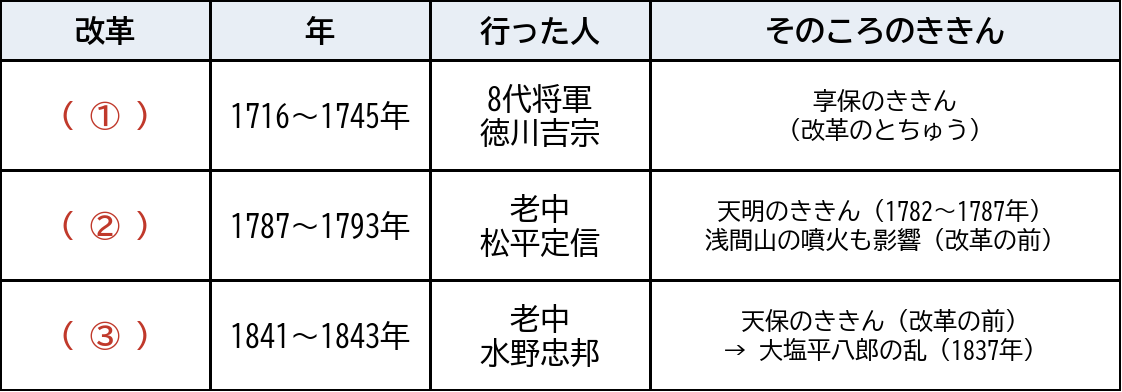
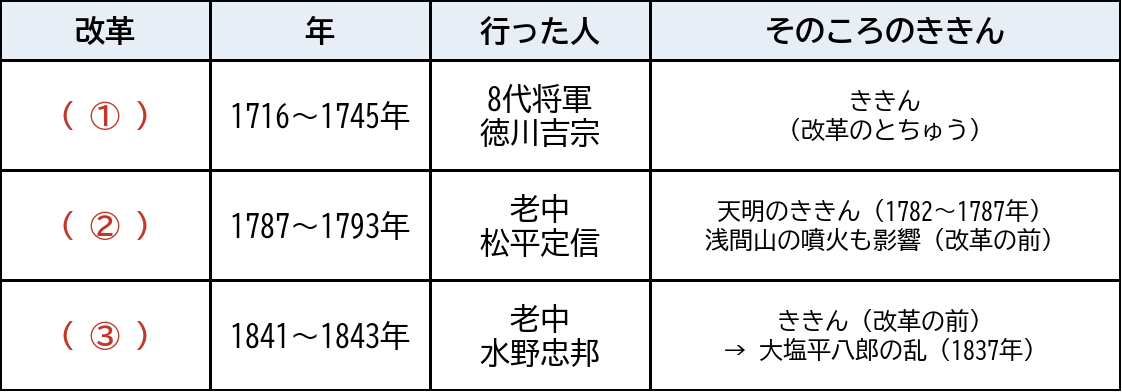
社会 第11回の表 g11t2・g11t3: 答えの手がかりを消す（t2 は享保・天保のききんの名を出さない・t3 は改革の列を「？」）（11-14 ユーザー）

Changed region(s): [[0.6551, 0.7653, 0.9046, 0.8571], [0.7175, 0.2143, 0.8422, 0.3061]]

diff --git a/sw.js b/sw.js
@@ -21,9 +21,9 @@
 //   図（images/）や機内用の範囲の問題を足したら `node tools/build_sw.mjs` を回す
 //   （回し忘れは `node tools/build_sw.mjs --check` と verify_data.mjs が鳴らす）
 // ==BUILD START==
-const VERSION = "dd1fa4ac10";
+const VERSION = "c8ce36f9dd";
 const SHELL = ["index.html","data.js","daimon_data.js","manifest.webmanifest"];
-const IMAGES = {"img_01.jpg":"c509d30588","img_02.jpg":"431d673976","img_03.jpg":"20551c26c2","img_04.jpg":"babec171a8","img_05.jpg":"217a902f82","img_06.jpg":"ee339c13be","img_07.jpg":"c1d5fc9bfa","img_08.jpg":"7dc1fc69c9","img_09.jpg":"122f4085cd","img_10.jpg":"79aa27232b","img_11.jpg":"c424068b7d","img_12.jpg":"28f630ce07","img_13.jpg":"3b0f378e3c","img_14.jpg":"fa1c135386","img_15.jpg":"9c58e3530d","img_16.png":"e8243de958","img_17.png":"3c926ffcaf","img_18.png":"d12e058e34","img_19.png":"7b6ca9ce21","img_20.png":"406e674c4e","img_21.png":"0318803303","img_22.png":"6256724412","img_23.jpg":"d2b41ad9fd","img_24.jpg":"9fb82e77d5","img_25.jpg":"e331b1db97","kai11_01.jpg":"d742fa02bc","kai11_02.jpg":"7d5ff2c1a6","kai11_03.jpg":"fa0de46f98","kai11_04.jpg":"5c528dc779","kai11_05.jpg":"4c5bcf952d","kai11_06.jpg":"9e51d6a09b","kai11_07.jpg":"45af4b2222","kai11_08.jpg":"bf30695b22","kai11_09.jpg":"36310a39b6","kai11_10.jpg":"bdf5150444","kai11_t1.png":"5d6a2375f1","kai11_t2.png":"049be79cb4","kai11_t3.png":"0be1bde1f1","kai11_t4.png":"190fda9932","kai11_t5.png":"f008754e86","kai1_01.jpg":"9ad30dbb41","kai1_02.jpg":"48cc954516","kai1_03.jpg":"f77c4689f9","kai1_04.jpg":"7be130efb7","kai1_05.jpg":"581087bbec","kai1_06.jpg":"605bb3fc6e","kai1_07.jpg":"443e9c5bb5","kai1_08.jpg":"f933cc3d35","kai1_09.jpg":"61d828179a","kai1_10.jpg":"aeb6fc6a25","kai1_11.jpg":"524c68147c","kai1_12.jpg":"0280a07787","kai1_13.jpg":"347749eafe","kai1_14.jpg":"4189b5e927","kai1_15.jpg":"1de589f164","kai1_17.jpg":"edb1f824fb","kai1_18.jpg":"02deb5baaf","kai1_20.jpg":"78bee7824e","kai1_21.jpg":"b72d254adb","kai1_22.jpg":"9288973c76","kai1_23.jpg":"724d436a13","kai1_24.jpg":"0280a07787","kai1_25.jpg":"8cb1eab9b2","kai1_26.jpg":"e6c693e547","kai1_27.jpg":"4351ddf4cd","kai1_28.jpg":"a94cdbe09e","kai1_29.jpg":"4ee5aed91d","kai1_30.jpg":"9f0cbd69a4","kai1_hikaku.jpg":"1d1a966776","kai2_01.jpg":"036fd88ce8","kai2_02.jpg":"0c18e7d26b","kai2_03.jpg":"18b9306794","kai2_04.jpg":"b8cee663c1","kai2_05.jpg":"9c0f05febe","kai3_01.jpg":"f0c6217e6d","kai3_02.jpg":"3afd2d1f3c","kai3_03.jpg":"5f4dcd0bee","kai3_04.jpg":"001a13ac17","kai3_05.jpg":"7d2c6c91ac","kai3_06.jpg":"c291d6c748","kai3_07.jpg":"84488aff29","kai4_01.jpg":"098f572034","kai5_01.jpg":"3916e558d3","kai5_02.jpg":"9bffc157fb","kai6_01.jpg":"21fc60dbd6","kai6_02.jpg":"99b07705de","kai6_03.jpg":"aabd3bc644","kai6_04.jpg":"aa04ce866e","kai6_05.jpg":"4297d7df87","kai6_06.jpg":"f8a264470b","kai6_07.jpg":"5d19b55330","kai6_08.jpg":"bdda62e4dd","kai6_09.jpg":"e6486ab1d9","kai7_01.jpg":"a289535a32","kai7_02.jpg":"4691df9fea","kai7_03.jpg":"3f76254c1d","kai7_04.jpg":"e497280d98","kai7_05.jpg":"96fdbde7c4","kai7_06.jpg":"c9bfae9ba3","kai7_07.jpg":"e18839816b","kai7_08.jpg":"58e8746c28","kai7_09.jpg":"e825ba55b9","kai8_01.jpg":"21a720c24f","kai8_02.jpg":"2b62307919","kai8_03.jpg":"6a964ed5d7","kai8_04.jpg":"58ec3bec61","kai8_05.jpg":"008e2ea758","kai8_06.jpg":"df368339d4","kai8_07.jpg":"eda4c5b548","kai8_08.jpg":"a6c80cc013","kai8_09.jpg":"10e896648d","kai8_11.jpg":"92b8606831","kai8_13.jpg":"c40d019dce","kai8_14.jpg":"343789076f","kai9_01.jpg":"9704a3254b","kai9_02.jpg":"bf94c29fd5","kai9_03.jpg":"4e5d5905d5","kai9_04.jpg":"c19cc88ae4","kai9_05.jpg":"7bdc4a86a7","kai9_06.jpg":"1d6a90b0ff","kai9_07.jpg":"5ac69cce32","kai9_08.jpg":"76799ff83f","kai9_09.jpg":"f72770bc19","kai9_10.jpg":"53ced4b6a1","kaki_r1_01.jpg":"40efaae693","kaki_r1_02.jpg":"c7c281cf30","kaki_r1_03.jpg":"166ecbf482","kaki_r1_04.jpg":"2669f29305","kaki_r1_05.jpg":"039c4f2ec1","kaki_r1_06.jpg":"c7da6a228f","kaki_r1_07.jpg":"c6ec89a8a8","kaki_r1_08.jpg":"9315802c0c","kaki_r1_map01.jpg":"6c41c6b2ad","kaki_r1_map02.jpg":"ecfac38b14","kaki_r1_map03.jpg":"32bdefa779","kaki_r1_map04.jpg":"8961c1f671","kaki_r1_map05.jpg":"e933b41316","kaki_r1_map06.jpg":"8b0fce1e24","kaki_r1_map07.jpg":"36ea857422","kaki_r1_map08.jpg":"1fb4038761","kaki_r1_map09.jpg":"c8ff2fbc1f","kaki_r1_map10.jpg":"efb44b01e1","kaki_r1_map11.jpg":"11ca22ec54","kaki_r1_map12.jpg":"5cd721c8c7","kaki_r1_map13.jpg":"c6bd4907a1","kaki_r1_map14.jpg":"532a90db1a","kaki_r1_map15.jpg":"1d3a34ebcb","kaki_r2_graph01.jpg":"32d57ce772","kaki_r2_graph02.jpg":"ee3d8ef3f4","kaki_r2_graph03.jpg":"780ea73f9f","kaki_r2_graph04.jpg":"6db370ff43","kaki_r2_graph06.jpg":"4205a357b8","kaki_r2_graph07.jpg":"24abb6e920","kaki_r2_map01.jpg":"e76da5df3c","kaki_r2_map05.jpg":"77871fe1cd","kaki_r2_map07.jpg":"edde3ccd6a","kaki_r2_map08.jpg":"f6b4fd1876","kaki_r2_map09.jpg":"571c10e75a","kaki_r2_map10.jpg":"639fce96a0","kaki_r2_map11.jpg":"f797085a00","kaki_r2_map12.jpg":"e6c57da6a6","kaki_r2_map13.jpg":"a677984d27","kaki_r2_map14.jpg":"453dffc6f7","kaki_r2_map15.jpg":"5584bcee3b","kaki_r2_map16.jpg":"b15ab6d389","kaki_r2_map17.jpg":"5bd38fb762","kaki_r2_map18.jpg":"7d2d88579e","kaki_r2_map19.jpg":"275eabe7ad","kaki_r3_graph01.jpg":"1cd4a32624","kaki_r3_house01.jpg":"b24e489bb0","kaki_r3_map01.jpg":"b5df31df5b","kaki_r3_map02.jpg":"9a95515cd3","kaki_r3_map03.jpg":"8219e31218","kaki_r3_map04.jpg":"d06babe5d0","kaki_r3_map05.jpg":"8d72897ae9","kaki_r3_map06.jpg":"7d5f78fc0a","kaki_r3_map07.jpg":"054c557c2e","kaki_r3_map08.jpg":"5106a9de1f","kaki_r3_map09.jpg":"242f1d237e","kaki_r3_map10.jpg":"fdddf5a535","kaki_r3_map11.jpg":"3b8de18bbf","kaki_r3_map12.jpg":"f3bd73ae35","kaki_r3_map13.jpg":"4d2bcf3271","kaki_r3_map14.jpg":"9502878c46","kaki_r3_map15.jpg":"24ae7e39c1","kaki_r3_map16.jpg":"7702af9f69","kaki_r3_map17.jpg":"c982cc30a8","kaki_r3_map18.jpg":"42988dc4cc","kaki_r3_map19.jpg":"b15c3f5f38","kaki_r3_map20.jpg":"0973448cc4","kaki_r3_map21.jpg":"c90eb11e41","kaki_r3_map22.jpg":"f89a00c568","kaki_r3_map23.jpg":"ce5b967d9c","kaki_r3_map24.jpg":"30c90127f2","kaki_r3_map25.jpg":"f7b333f624","kaki_r3_map26.jpg":"9b79fa55d6","kaki_r3_map27.jpg":"1372731975","kaki_r3_map28.jpg":"f27a725668","kaki_r3_map29.jpg":"f2f731e618","kaki_r3_map30.jpg":"f3cf418799","kaki_r3_map31.jpg":"92342ccf13","kaki_r3_map32.jpg":"aca69cb237","kaki_r3_map33.jpg":"a067100f3f","kaki_r3_map34.jpg":"c09c0eae4c","kaki_r3_map35.jpg":"338b7b8b69","kaki_r3_map36.jpg":"50726b5665","kaki_r3_map37.jpg":"adb3ff0179","kaki_r3_shapes.jpg":"b7ef8fe7b0","kaki_r4_graph01.jpg":"c01de42527","kaki_r4_graph02.jpg":"4df4d97dbb","kaki_r4_map01.jpg":"79964d929e","kaki_r4_map02.jpg":"214032e3fb","kaki_r4_map03.jpg":"d3480426f7","kaki_r4_map04.jpg":"cd15a33476","kaki_r4_map05.jpg":"b9785a5761","kaki_r4_map06.jpg":"0de4ecf793","kaki_r4_map07.jpg":"111c204b6c","kaki_r4_map08.jpg":"a9cd2b7609","kaki_r4_map09.jpg":"53c7a9f0f6","kaki_r4_map10.jpg":"1446aba131","kaki_r4_map11.jpg":"014d34cbfb","kaki_r4_map12.jpg":"1ffc5e7cad","kaki_r4_map13.jpg":"765e7355cb","kaki_r4_map14.jpg":"14832f0c5b","kaki_r4_map15.jpg":"eb779a8f40","kaki_r4_map16.jpg":"efb2dc0c7d","kaki_r4_map17.jpg":"f5d991a0a9","kaki_r4_map18.jpg":"944dce04f2","kaki_r4_map19.jpg":"3573613dda","kaki_r4_map20.jpg":"1051878e40","kaki_r4_map21.jpg":"09de9cc945","kaki_r4_map22.jpg":"7cd6f39783","kaki_r4_map23.jpg":"54f7ae304f","kaki_r4_map24.jpg":"90e43d0b03","kaki_r4_map25.jpg":"25d2998845","kaki_r4_map26.jpg":"b410216caa","kaki_r4_map27.jpg":"01d2acc713","kaki_r4_map28.jpg":"72394df34f","kaki_r4_map29.jpg":"9e710c5386","kaki_r4_map30.jpg":"96dcc908eb","kaki_r4_map31.jpg":"b4b23e5056","kaki_r4_map32.jpg":"c6e141f588","kaki_r4_map33.jpg":"5637d59ea5","kaki_r4_map34.jpg":"da2b9a701d","kaki_r4_map35.jpg":"b38a26a1f9","kaki_r4_map36.jpg":"654a87c9ca","kaki_r4_map37.jpg":"abf9495c0e","kaki_r4_map38.jpg":"d9bfd21599","kaki_r4_map39.jpg":"adc7d0233c","kaki_r4_map40.jpg":"e48b5684b9","kaki_r4_map41.jpg":"a7c900c913","kaki_r4_shapes01.jpg":"fecd868b23","kaki_r4_shapes02.jpg":"d55b458da9","kaki_r5_graph02.jpg":"c66566f25f","kaki_r5_graph05.jpg":"9e47ade2ee","kaki_r5_map01.jpg":"c38804bbfe","kaki_r5_map02.jpg":"7eac88cd41","kaki_r5_map03.jpg":"6cb4d28531","kaki_r5_map04.jpg":"1ce12d046c","kaki_r5_map05.jpg":"ed7badf0e7","kaki_r5_map06.jpg":"cb26648bb7","kaki_r5_map07.jpg":"71e0a7471a","kaki_r5_map08.jpg":"cb201dc1ad","kaki_r5_map09.jpg":"5492cacbbd","kaki_r5_map10.jpg":"55d2435544","kaki_r5_map11.jpg":"343f6ce76d","kaki_r5_map12.jpg":"b74276a461","kaki_r5_map13.jpg":"d662f67d0a","kaki_r5_map14.jpg":"9c25e54a2c","kaki_r5_map15.jpg":"4376961dbe","kaki_r5_map16.jpg":"a398327f58","kaki_r5_map17.jpg":"8f1e23de6f","kaki_r5_map18.jpg":"d063497018","kaki_r5_map19.jpg":"9e149162e9","kaki_r5_map20.jpg":"2c88d5bd5a","kaki_r5_map21.jpg":"1a580e7a32","kaki_r5_map22.jpg":"398b418584","kaki_r5_map23.jpg":"4d62801b55","kaki_r5_map24.jpg":"fe4a91e391","kaki_r5_map25.jpg":"2b1faef03a","kaki_r5_map26.jpg":"caa8517e16","kaki_r5_map27.jpg":"3fc1dacd7c","kaki_r5_map28.jpg":"5b003a47a1","kaki_r5_map29.jpg":"4c177786d9","kaki_r5_map30.jpg":"8771a4c770","kaki_r5_map31.jpg":"8b3232b824","kaki_r5_map32.jpg":"3edcd448a1","kaki_r5_shapes02.jpg":"5df2c79f77","kaki_r5_shapes03.jpg":"aac1488fcf","kaki_r5_table01.jpg":"19533bd2f2","kaki_r5_table02.jpg":"d8019480f5","kaki_r6_graph01.jpg":"96bb4577a7","kaki_r6_map01.jpg":"d9934df143","kaki_r6_map02.jpg":"fe5bd5dbbe","kaki_r6_map03.jpg":"e1e31c6154","kaki_r6_map04.jpg":"b66fa8a761","kaki_r6_map05.jpg":"e32e50186e","kaki_r6_map06.jpg":"edd75b804c","kaki_r6_map07.jpg":"b77ba31786","kaki_r6_map08.jpg":"36b54ed3c8","kaki_r6_map09.jpg":"6f08ed9b1a","kaki_r6_map10.jpg":"5dcc7b61af","kaki_r6_map11.jpg":"8930f6ed5a","kaki_r6_map12.jpg":"b9a01555a7","kaki_r6_map13.jpg":"ae954fc0d3","kaki_r6_map14.jpg":"c3d0ada944","kaki_r6_map15.jpg":"33c3dd2588","kaki_r6_map16.jpg":"f143bac952","kaki_r6_map17.jpg":"8e4028b2f9","kaki_r6_map18.jpg":"e27c8cc933","kaki_r6_map19.jpg":"9675f32dd9","kaki_r6_map20.jpg":"73a10cd200","kaki_r6_map21.jpg":"d4424ac8cf","kaki_r6_map22.jpg":"2274caa4a2","kaki_r6_map23.jpg":"129b3c20cf","kaki_r6_map24.jpg":"334ddece52","kaki_r6_map25.jpg":"6c84324de8","kaki_r6_map26.jpg":"4f02b0d10a","kaki_r6_map27.jpg":"5435b9a073","kaki_r6_map28.jpg":"4f420842a2","kaki_r6_map29.jpg":"43c72ca771","kaki_r6_map30.jpg":"ba92be3494","kaki_r6_map31.jpg":"5fb2f51387","kaki_r6_map32.jpg":"50a9be50e2","kaki_r6_map33.jpg":"ee52bc0e68","kaki_r6_map34.jpg":"c306aca085","kaki_r6_map35.jpg":"82ba643838","kaki_r6_map36.jpg":"f0b2024222","kaki_r6_map37.jpg":"578787fb55","kaki_r6_map38.jpg":"a867948ec2","kaki_r6_map39.jpg":"36ddd230df","kaki_r6_map40.jpg":"b451ce2553","kaki_r6_map41.jpg":"e945ff9e3b","kaki_r6_map42.jpg":"6ead747b59","kaki_r6_map43.jpg":"0c4fa9452c","kaki_r6_map44.jpg":"b6ba24cf61","kaki_r6_map45.jpg":"60c76ded4f","kaki_r6_map46.jpg":"c997423a88","kaki_r6_map47.jpg":"03668f2ff1","kaki_r6_map48.jpg":"b976807139","kaki_r6_map49.jpg":"3bede7dac8","kaki_r6_table01.jpg":"a8958813c8","kaki_r7_graph02.jpg":"1f62812a09","kaki_r7_map01.jpg":"99e641197f","kaki_r7_map02.jpg":"9bf3a0d803","kaki_r7_map03.jpg":"f797eda8eb","kaki_r7_map04.jpg":"decaa1c29a","kaki_r7_map05.jpg":"8c65db6a92","kaki_r7_map06.jpg":"ac9efa31ab","kaki_r7_map07.jpg":"8c1d72ca7c","kaki_r7_map08.jpg":"433be63b7b","kaki_r7_map09.jpg":"54db8c57e6","kaki_r7_map10.jpg":"71c659ba69","kaki_r7_map11.jpg":"b21192fde1","kaki_r7_map12.jpg":"73c261b366","kaki_r7_map13.jpg":"65f35e8544","kaki_r7_map14.jpg":"7177100d76","kaki_r7_map15.jpg":"133fd7c751","kaki_r7_map16.jpg":"3eb4b1ab57","kaki_r7_map17.jpg":"c7e46c62c8","kaki_r7_map18.jpg":"595fa5f1d3","kaki_r7_map19.jpg":"49e0ea66d2","kaki_r7_map20.jpg":"030f5b32b7","kaki_r7_map21.jpg":"05808524f1","kaki_r7_map22.jpg":"bd20c38480","kaki_r7_map23.jpg":"ce6fc43df4","kaki_r7_map24.jpg":"b2753580e2","kaki_r7_map25.jpg":"78bd7107e6","kaki_r7_map26.jpg":"34d4f7151a","kaki_r7_map27.jpg":"b21d7f5dd5","kaki_r7_map28.jpg":"476473eec3","kaki_r7_map29.jpg":"97c7ee7f61","kaki_r7_map30.jpg":"e0005dcc88","kaki_r7_map31.jpg":"204f2de615","kaki_r7_map32.jpg":"f006ba7103","kaki_r7_map33.jpg":"da58f9cff4","kaki_r7_map34.jpg":"1f584b7d6a","kaki_r7_map35.jpg":"11e1004bd8","kaki_r7_map36.jpg":"fd137ff9b8","kaki_r7_table01.jpg":"531ede38c5","kaki_r7_table02.jpg":"0e77123fca","kaki_r8_map01.jpg":"a57f501a98","kaki_r8_map02.jpg":"b06073e9aa","kaki_r8_map03.jpg":"5c8daedeab","kaki_r8_map04.jpg":"10a7bdd03d","kaki_r8_map05.jpg":"4fb5437d44","kaki_r8_map06.jpg":"76a72a9043","kaki_r8_map07.jpg":"77cc3b1bbc","kaki_r8_map08.jpg":"5c8d0a406b","kaki_r8_map09.jpg":"4ab8d8bf9c","kaki_r8_map10.jpg":"005ce58bdc","kaki_r8_map11.jpg":"8c83802060","kaki_r8_map12.jpg":"a5781f5932","kaki_r8_map13.jpg":"f3dcb0128c","kaki_r8_map14.jpg":"40a712cf1f","kaki_r8_map15.jpg":"79a9d6288f","kaki_r8_map16.jpg":"104361951c","kaki_r8_map17.jpg":"e43f6d31b7","kaki_r8_map18.jpg":"c67dd6cb83","kaki_r8_map19.jpg":"48159eea09","kaki_r8_map20.jpg":"023d3f8a9d","kaki_r8_map21.jpg":"03f3be5685","kaki_r8_map22.jpg":"77fe732dea","kaki_r8_map23.jpg":"e005abbe6c","kaki_r8_map24.jpg":"b25880e6c5","kaki_r8_map25.jpg":"7e313cd421","kaki_r8_map26.jpg":"def354dfdd","kaki_r8_map27.jpg":"449858def5","kaki_r8_map28.jpg":"bb9f08441a","kaki_r8_map29.jpg":"472c09aa53","kaki_r8_map30.jpg":"35be560792","kaki_r8_map31.jpg":"6cbd996f24","kaki_r8_map32.jpg":"60af73c7f5","kaki_r8_map33.jpg":"b194bc8ead","kaki_r8_map34.jpg":"cbc7c209db","kaki_r8_map35.jpg":"1de93906c5","kaki_r8_map36.jpg":"6ba8cf6d3b","kaki_r8_map37.jpg":"07aeb406af","kaki_r8_map38.jpg":"bee7eebc38","kaki_r8_map39.jpg":"45f22df6b1","kaki_r8_map40.jpg":"9e3f4196d2","kaki_r8_map41.jpg":"f1ce465720","kaki_r8_map42.jpg":"0551ccd81c","kaki_r8_map43.jpg":"82000f70d1","kaki_r8_map44.jpg":"2b88f0190b","kaki_r8_map45.jpg":"35ee95a764","kaki_r8_map46.jpg":"dd721e219c","kaki_r8_map47.jpg":"a465f218c2","kaki_r8_map48.jpg":"dcdc8a4d37","kaki_r8_map49.jpg":"388b475050","kaki_r8_map50.jpg":"4153c12b69","kaki_r8_map51.jpg":"aa826973da","kaki_r8_map52.jpg":"40fa851678","kaki_r8_map53.jpg":"181212ead1","kaki_r8_map54.jpg":"7c5a4a90c3","kaki_r8_map55.jpg":"488f98a461","kaki_r8_map56.jpg":"95df737037","kaki_r8_map57.jpg":"92d00cfd17","kaki_r8_map58.jpg":"6e49210e3e","r11_01.jpg":"321b1f3aac","r11_02.jpg":"562e0c2949","r11_03.jpg":"7b81336618","r11_04.jpg":"423ff2c7c6","r11_05.jpg":"b78b0ac6c2","r11h_1.jpg":"c13ee378de","r11h_2.jpg":"cd5de86a29","r11k_2.jpg":"c617c3a356","r11k_2b.jpg":"bde5cbd879","r11k_3.jpg":"c5e207abf9","r11k_4.jpg":"5a7639a134","r11r_1.jpg":"64e19bacb1","r11r_1b.jpg":"f568723aee","r11r_1c.jpg":"811ad87c33","r11r_2.jpg":"42e7b8475e","r11r_2b.jpg":"c005f2a869","r11r_3.jpg":"93bae49f24","r1_01.jpg":"4a6380da93","r1_02.jpg":"da23c3400c","r1_03.jpg":"7eddc7aa20","r1_04.jpg":"dbd948bc4f","r1_05.jpg":"435f86d82f","r1_06.jpg":"f09fdec1b9","r1_shinrin.jpg":"a750740d7f","r2_01.jpg":"3b40218424","r2_02.jpg":"387da36abc","r2_03.jpg":"e1febb3ca4","r2_04.jpg":"95132e77ec","r2_05.jpg":"0b08a836a5","r2_06.jpg":"0213ccc6d0","r2_07.jpg":"87baf0940a","r2_08.jpg":"07e455253d","r2_09.jpg":"42792edd75","r2_10.jpg":"42792edd75","r2_11.jpg":"42792edd75","r2_12.jpg":"4f2c45c956","r2_13.jpg":"4f2c45c956","r2_14.jpg":"4f2c45c956","r2_15.jpg":"52e855ee49","r2_16.jpg":"52e855ee49","r2_17.jpg":"52e855ee49","r2_18.jpg":"440bf4b31f","r2_19.jpg":"440bf4b31f","r2_20.jpg":"535707c4eb","r2_21.jpg":"535707c4eb","r2_22.jpg":"535707c4eb","r2_23.jpg":"535707c4eb","r2_24.jpg":"535707c4eb","r2_25.jpg":"535707c4eb","r2_26.jpg":"2dc94c771d","r2_27.jpg":"2dc94c771d","r2_28.jpg":"2dc94c771d","r2_29.jpg":"2dc94c771d","r2_30.jpg":"a6433ef6c0","r2_31.jpg":"a6433ef6c0","r2_32.jpg":"a6433ef6c0","r2_33.jpg":"a6433ef6c0","r2_34.jpg":"8d16d4ac64","r2_35.jpg":"8d16d4ac64","r2_36.jpg":"8d16d4ac64","r2_37.jpg":"8d16d4ac64","r2_38.jpg":"91f1c5bca5","r2_39.jpg":"b60adbd1c3","r2_40.jpg":"c82ed30fab","r3_chuuwa.jpg":"803f88484e","r3_seishitsu.jpg":"6584946c1b","r3_shijiyaku.jpg":"9b319c7d88","r3_yomi21.jpg":"b2ad009491","r3_yomi24.jpg":"d6fc3d99b8","r3_yomi25.jpg":"aa0903b0ab","r3_yomi27.jpg":"8dc3d4a3a9","r3_yomi36.jpg":"595c040e9f","r3k_1a.jpg":"55441f3d9f","r3k_1b.jpg":"1356de67e3","r3k_2.jpg":"3105353be2","r3k_3.jpg":"4f041ffa22","r3r_3.jpg":"10cadd705b","r3w_2.jpg":"282e87ba1b","r3w_3.jpg":"b2770557c1","r3y_5ans.jpg":"e4645e89b4","r4_01.jpg":"393de5eca5","r4_02.jpg":"40d9b4e0f2","r4_03.jpg":"5b2d21540e","r4_04.jpg":"947f21bcb2","r4k_1.jpg":"90d74e5d01","r4k_2.jpg":"cc3c2e4caa","r4r_1.jpg":"4798d0b4ce","r4r_2.jpg":"7f98882f2f","r4r_3.jpg":"583c14ef86","r4r_4.jpg":"d02ddf1cd0","r4w_1a.jpg":"b6bf2c20dd","r4w_1b.jpg":"64b2ae8256","r4w_2.jpg":"ba6aa9c69c","r4w_3.jpg":"b838901256","r5u13_01.jpg":"8a69c689ae","r5u13_02.jpg":"e52d50ee0d","r5u13_03.jpg":"8b6aae14a3","r5u13_04.jpg":"c0812ddc66","r5u13_05.jpg":"a2ffcc22da","r5u13_06.jpg":"41b8282bc6","r5u13_07.jpg":"a42085c269","r5u13_08.jpg":"7ff9dfa5c5","r6_01.jpg":"32ff3016d8","r6_02.jpg":"3c73527dd8","r6_03.jpg":"a444385107","r6_04.jpg":"a4dfdac612","r6_05.jpg":"b5f6b9f6a3","r6_06.jpg":"1a7c249e0f","r6_07.jpg":"389ba3d7b8","r6_08.jpg":"54e693e4b7","r6_09.jpg":"b02381d63b","r6_10.jpg":"da46bca31a","r6_11.jpg":"9259db1350","r6_12.jpg":"14c449020d","r6_13.jpg":"0577c1be67","r6_14.jpg":"79530fa540","r6_15.jpg":"dcf990eb89","r6_16.jpg":"d5a37d0bce","r6_17.jpg":"cbeac19169","r6k_1.jpg":"0c5793f6c1","r6k_2.jpg":"7cc5f04102","r6k_2b.jpg":"19f68c1767","r6k_3.jpg":"6b57f40878","r6k_4.jpg":"6eba853e20","r6p_01.jpg":"e16dfbac90","r6p_02.jpg":"9a335bea93","r6p_03.jpg":"9ed60c3d70","r6p_04.jpg":"ae5944a085","r6p_05.jpg":"b6a1836a78","r6p_06.jpg":"acb7478bd6","r6p_07.jpg":"a4c8c8dd0d","r6r_1.jpg":"4606457fc7","r6r_1b.jpg":"dafd16e516","r6r_2.jpg":"73bd9e9cc4","r6r_2b.jpg":"ce235b797a","r6r_2c.jpg":"3638d4d780","r6r_3.jpg":"8bc4c35ba9","r6r_3ans.jpg":"c729ca8dc1","r6r_4.jpg":"1a97fe9f9a","r6r_4b.jpg":"e1f0d07003","r6r_4c.jpg":"606d8620bb","r6r_5.jpg":"83747b014d","r7_01.jpg":"466ea22251","r7_02.jpg":"84ef6e008b","r7_03.jpg":"3583685d2a","r7_04.jpg":"a49dfe47bb","r7_05.jpg":"8357813f22","r7_06.jpg":"1e30160b9f","r7_07.jpg":"fec15a5ddd","r7_08.jpg":"5f8a1be38a","r7_10.jpg":"01bd20bac0","r7k_2.jpg":"c3e5b1fdc4","r7k_2b.jpg":"b4937893d8","r7k_3.jpg":"dfb199cdc1","r7k_4.jpg":"46545faf0d","r7r_1.jpg":"6de7fd0a8e","r7r_1b.jpg":"ed991d90d3","r7r_1c.jpg":"235b1d340f","r7r_2.jpg":"807cc07178","r7r_3.jpg":"9541daa1d1","r7r_5c.jpg":"bad6e5885d","r7y_1.jpg":"c647deffec","r8_05.jpg":"997a3b7635","r8_06.jpg":"b56d871128","r8_07.jpg":"5bb801877e","r8_10.jpg":"ac484d0958","r8_11.jpg":"174c916ad6","r8_12.jpg":"3e8313d3ab","r8_13.jpg":"f2f5f12b44","r8_14.jpg":"de0761c890","r8_15.jpg":"955040e2d6","r8_16.jpg":"17e5a0bb41","r8_17.jpg":"fe5825e0da","r8_18.jpg":"5ad51c980d","r8k_1.jpg":"a7e3225a1e","r8k_2.jpg":"2d8935c26a","r8k_3.jpg":"fea0c57403","r8k_4.jpg":"101c437443","r8r_1.jpg":"781eb27ca1","r8r_1b.jpg":"b123b7d86d","r8r_1c.jpg":"eb02922d34","r8r_2.jpg":"eb632645d4","r8r_2c.jpg":"d7e9c8d38d","r8r_3.jpg":"fb200207c9","r8r_4.jpg":"cf5f75eccf","r8r_5.jpg":"4876ee8eeb","r8r_5b.jpg":"7799e66960","r8r_5c.jpg":"6bd6e2bad1","r8y_1.jpg":"5a55076e7d","r8y_2.jpg":"ef35951bec","r8y_3.jpg":"b95a28fa6d","r9_01.jpg":"ef3eeb19d5","r9_02.jpg":"75ffd6c347","r9_03.jpg":"e6ae1b2a1c","r9_04.jpg":"ae3ca3e752","r9_05.jpg":"d037fd4536","r9_06.jpg":"4837b59107","r9_07.jpg":"3b27c8bb15","r9_08.jpg":"d8f45dbe17","r9_09.jpg":"597d1b0423","r9d_01.jpg":"db4cc4c881","r9k_1.jpg":"560bbb6301","r9k_1b.jpg":"62cbe10e38","r9k_2.jpg":"b7467838ca","r9k_3.jpg":"8716d534ac","r9r_1.jpg":"6856a4e449","r9r_1b.jpg":"5cebd6dd8f","r9r_3.jpg":"f199288e40","r9r_4.jpg":"d91ea6189f","r9r_4b.jpg":"68486a883e","r9r_5.jpg":"e5553f71d3","組分け6_1_地図.png":"ec7b795c88","組分け6_1_絵.png":"56dddd3c07","組分け6_3_地図.png":"6488459456","組分け6_3_模式図.png":"5b845a6430"};
+const IMAGES = {"img_01.jpg":"c509d30588","img_02.jpg":"431d673976","img_03.jpg":"20551c26c2","img_04.jpg":"babec171a8","img_05.jpg":"217a902f82","img_06.jpg":"ee339c13be","img_07.jpg":"c1d5fc9bfa","img_08.jpg":"7dc1fc69c9","img_09.jpg":"122f4085cd","img_10.jpg":"79aa27232b","img_11.jpg":"c424068b7d","img_12.jpg":"28f630ce07","img_13.jpg":"3b0f378e3c","img_14.jpg":"fa1c135386","img_15.jpg":"9c58e3530d","img_16.png":"e8243de958","img_17.png":"3c926ffcaf","img_18.png":"d12e058e34","img_19.png":"7b6ca9ce21","img_20.png":"406e674c4e","img_21.png":"0318803303","img_22.png":"6256724412","img_23.jpg":"d2b41ad9fd","img_24.jpg":"9fb82e77d5","img_25.jpg":"e331b1db97","kai11_01.jpg":"d742fa02bc","kai11_02.jpg":"7d5ff2c1a6","kai11_03.jpg":"fa0de46f98","kai11_04.jpg":"5c528dc779","kai11_05.jpg":"4c5bcf952d","kai11_06.jpg":"9e51d6a09b","kai11_07.jpg":"45af4b2222","kai11_08.jpg":"bf30695b22","kai11_09.jpg":"36310a39b6","kai11_10.jpg":"bdf5150444","kai11_t1.png":"5d6a2375f1","kai11_t2.png":"b4af52226a","kai11_t3.png":"35e2e72e90","kai11_t4.png":"190fda9932","kai11_t5.png":"f008754e86","kai1_01.jpg":"9ad30dbb41","kai1_02.jpg":"48cc954516","kai1_03.jpg":"f77c4689f9","kai1_04.jpg":"7be130efb7","kai1_05.jpg":"581087bbec","kai1_06.jpg":"605bb3fc6e","kai1_07.jpg":"443e9c5bb5","kai1_08.jpg":"f933cc3d35","kai1_09.jpg":"61d828179a","kai1_10.jpg":"aeb6fc6a25","kai1_11.jpg":"524c68147c","kai1_12.jpg":"0280a07787","kai1_13.jpg":"347749eafe","kai1_14.jpg":"4189b5e927","kai1_15.jpg":"1de589f164","kai1_17.jpg":"edb1f824fb","kai1_18.jpg":"02deb5baaf","kai1_20.jpg":"78bee7824e","kai1_21.jpg":"b72d254adb","kai1_22.jpg":"9288973c76","kai1_23.jpg":"724d436a13","kai1_24.jpg":"0280a07787","kai1_25.jpg":"8cb1eab9b2","kai1_26.jpg":"e6c693e547","kai1_27.jpg":"4351ddf4cd","kai1_28.jpg":"a94cdbe09e","kai1_29.jpg":"4ee5aed91d","kai1_30.jpg":"9f0cbd69a4","kai1_hikaku.jpg":"1d1a966776","kai2_01.jpg":"036fd88ce8","kai2_02.jpg":"0c18e7d26b","kai2_03.jpg":"18b9306794","kai2_04.jpg":"b8cee663c1","kai2_05.jpg":"9c0f05febe","kai3_01.jpg":"f0c6217e6d","kai3_02.jpg":"3afd2d1f3c","kai3_03.jpg":"5f4dcd0bee","kai3_04.jpg":"001a13ac17","kai3_05.jpg":"7d2c6c91ac","kai3_06.jpg":"c291d6c748","kai3_07.jpg":"84488aff29","kai4_01.jpg":"098f572034","kai5_01.jpg":"3916e558d3","kai5_02.jpg":"9bffc157fb","kai6_01.jpg":"21fc60dbd6","kai6_02.jpg":"99b07705de","kai6_03.jpg":"aabd3bc644","kai6_04.jpg":"aa04ce866e","kai6_05.jpg":"4297d7df87","kai6_06.jpg":"f8a264470b","kai6_07.jpg":"5d19b55330","kai6_08.jpg":"bdda62e4dd","kai6_09.jpg":"e6486ab1d9","kai7_01.jpg":"a289535a32","kai7_02.jpg":"4691df9fea","kai7_03.jpg":"3f76254c1d","kai7_04.jpg":"e497280d98","kai7_05.jpg":"96fdbde7c4","kai7_06.jpg":"c9bfae9ba3","kai7_07.jpg":"e18839816b","kai7_08.jpg":"58e8746c28","kai7_09.jpg":"e825ba55b9","kai8_01.jpg":"21a720c24f","kai8_02.jpg":"2b62307919","kai8_03.jpg":"6a964ed5d7","kai8_04.jpg":"58ec3bec61","kai8_05.jpg":"008e2ea758","kai8_06.jpg":"df368339d4","kai8_07.jpg":"eda4c5b548","kai8_08.jpg":"a6c80cc013","kai8_09.jpg":"10e896648d","kai8_11.jpg":"92b8606831","kai8_13.jpg":"c40d019dce","kai8_14.jpg":"343789076f","kai9_01.jpg":"9704a3254b","kai9_02.jpg":"bf94c29fd5","kai9_03.jpg":"4e5d5905d5","kai9_04.jpg":"c19cc88ae4","kai9_05.jpg":"7bdc4a86a7","kai9_06.jpg":"1d6a90b0ff","kai9_07.jpg":"5ac69cce32","kai9_08.jpg":"76799ff83f","kai9_09.jpg":"f72770bc19","kai9_10.jpg":"53ced4b6a1","kaki_r1_01.jpg":"40efaae693","kaki_r1_02.jpg":"c7c281cf30","kaki_r1_03.jpg":"166ecbf482","kaki_r1_04.jpg":"2669f29305","kaki_r1_05.jpg":"039c4f2ec1","kaki_r1_06.jpg":"c7da6a228f","kaki_r1_07.jpg":"c6ec89a8a8","kaki_r1_08.jpg":"9315802c0c","kaki_r1_map01.jpg":"6c41c6b2ad","kaki_r1_map02.jpg":"ecfac38b14","kaki_r1_map03.jpg":"32bdefa779","kaki_r1_map04.jpg":"8961c1f671","kaki_r1_map05.jpg":"e933b41316","kaki_r1_map06.jpg":"8b0fce1e24","kaki_r1_map07.jpg":"36ea857422","kaki_r1_map08.jpg":"1fb4038761","kaki_r1_map09.jpg":"c8ff2fbc1f","kaki_r1_map10.jpg":"efb44b01e1","kaki_r1_map11.jpg":"11ca22ec54","kaki_r1_map12.jpg":"5cd721c8c7","kaki_r1_map13.jpg":"c6bd4907a1","kaki_r1_map14.jpg":"532a90db1a","kaki_r1_map15.jpg":"1d3a34ebcb","kaki_r2_graph01.jpg":"32d57ce772","kaki_r2_graph02.jpg":"ee3d8ef3f4","kaki_r2_graph03.jpg":"780ea73f9f","kaki_r2_graph04.jpg":"6db370ff43","kaki_r2_graph06.jpg":"4205a357b8","kaki_r2_graph07.jpg":"24abb6e920","kaki_r2_map01.jpg":"e76da5df3c","kaki_r2_map05.jpg":"77871fe1cd","kaki_r2_map07.jpg":"edde3ccd6a","kaki_r2_map08.jpg":"f6b4fd1876","kaki_r2_map09.jpg":"571c10e75a","kaki_r2_map10.jpg":"639fce96a0","kaki_r2_map11.jpg":"f797085a00","kaki_r2_map12.jpg":"e6c57da6a6","kaki_r2_map13.jpg":"a677984d27","kaki_r2_map14.jpg":"453dffc6f7","kaki_r2_map15.jpg":"5584bcee3b","kaki_r2_map16.jpg":"b15ab6d389","kaki_r2_map17.jpg":"5bd38fb762","kaki_r2_map18.jpg":"7d2d88579e","kaki_r2_map19.jpg":"275eabe7ad","kaki_r3_graph01.jpg":"1cd4a32624","kaki_r3_house01.jpg":"b24e489bb0","kaki_r3_map01.jpg":"b5df31df5b","kaki_r3_map02.jpg":"9a95515cd3","kaki_r3_map03.jpg":"8219e31218","kaki_r3_map04.jpg":"d06babe5d0","kaki_r3_map05.jpg":"8d72897ae9","kaki_r3_map06.jpg":"7d5f78fc0a","kaki_r3_map07.jpg":"054c557c2e","kaki_r3_map08.jpg":"5106a9de1f","kaki_r3_map09.jpg":"242f1d237e","kaki_r3_map10.jpg":"fdddf5a535","kaki_r3_map11.jpg":"3b8de18bbf","kaki_r3_map12.jpg":"f3bd73ae35","kaki_r3_map13.jpg":"4d2bcf3271","kaki_r3_map14.jpg":"9502878c46","kaki_r3_map15.jpg":"24ae7e39c1","kaki_r3_map16.jpg":"7702af9f69","kaki_r3_map17.jpg":"c982cc30a8","kaki_r3_map18.jpg":"42988dc4cc","kaki_r3_map19.jpg":"b15c3f5f38","kaki_r3_map20.jpg":"0973448cc4","kaki_r3_map21.jpg":"c90eb11e41","kaki_r3_map22.jpg":"f89a00c568","kaki_r3_map23.jpg":"ce5b967d9c","kaki_r3_map24.jpg":"30c90127f2","kaki_r3_map25.jpg":"f7b333f624","kaki_r3_map26.jpg":"9b79fa55d6","kaki_r3_map27.jpg":"1372731975","kaki_r3_map28.jpg":"f27a725668","kaki_r3_map29.jpg":"f2f731e618","kaki_r3_map30.jpg":"f3cf418799","kaki_r3_map31.jpg":"92342ccf13","kaki_r3_map32.jpg":"aca69cb237","kaki_r3_map33.jpg":"a067100f3f","kaki_r3_map34.jpg":"c09c0eae4c","kaki_r3_map35.jpg":"338b7b8b69","kaki_r3_map36.jpg":"50726b5665","kaki_r3_map37.jpg":"adb3ff0179","kaki_r3_shapes.jpg":"b7ef8fe7b0","kaki_r4_graph01.jpg":"c01de42527","kaki_r4_graph02.jpg":"4df4d97dbb","kaki_r4_map01.jpg":"79964d929e","kaki_r4_map02.jpg":"214032e3fb","kaki_r4_map03.jpg":"d3480426f7","kaki_r4_map04.jpg":"cd15a33476","kaki_r4_map05.jpg":"b9785a5761","kaki_r4_map06.jpg":"0de4ecf793","kaki_r4_map07.jpg":"111c204b6c","kaki_r4_map08.jpg":"a9cd2b7609","kaki_r4_map09.jpg":"53c7a9f0f6","kaki_r4_map10.jpg":"1446aba131","kaki_r4_map11.jpg":"014d34cbfb","kaki_r4_map12.jpg":"1ffc5e7cad","kaki_r4_map13.jpg":"765e7355cb","kaki_r4_map14.jpg":"14832f0c5b","kaki_r4_map15.jpg":"eb779a8f40","kaki_r4_map16.jpg":"efb2dc0c7d","kaki_r4_map17.jpg":"f5d991a0a9","kaki_r4_map18.jpg":"944dce04f2","kaki_r4_map19.jpg":"3573613dda","kaki_r4_map20.jpg":"1051878e40","kaki_r4_map21.jpg":"09de9cc945","kaki_r4_map22.jpg":"7cd6f39783","kaki_r4_map23.jpg":"54f7ae304f","kaki_r4_map24.jpg":"90e43d0b03","kaki_r4_map25.jpg":"25d2998845","kaki_r4_map26.jpg":"b410216caa","kaki_r4_map27.jpg":"01d2acc713","kaki_r4_map28.jpg":"72394df34f","kaki_r4_map29.jpg":"9e710c5386","kaki_r4_map30.jpg":"96dcc908eb","kaki_r4_map31.jpg":"b4b23e5056","kaki_r4_map32.jpg":"c6e141f588","kaki_r4_map33.jpg":"5637d59ea5","kaki_r4_map34.jpg":"da2b9a701d","kaki_r4_map35.jpg":"b38a26a1f9","kaki_r4_map36.jpg":"654a87c9ca","kaki_r4_map37.jpg":"abf9495c0e","kaki_r4_map38.jpg":"d9bfd21599","kaki_r4_map39.jpg":"adc7d0233c","kaki_r4_map40.jpg":"e48b5684b9","kaki_r4_map41.jpg":"a7c900c913","kaki_r4_shapes01.jpg":"fecd868b23","kaki_r4_shapes02.jpg":"d55b458da9","kaki_r5_graph02.jpg":"c66566f25f","kaki_r5_graph05.jpg":"9e47ade2ee","kaki_r5_map01.jpg":"c38804bbfe","kaki_r5_map02.jpg":"7eac88cd41","kaki_r5_map03.jpg":"6cb4d28531","kaki_r5_map04.jpg":"1ce12d046c","kaki_r5_map05.jpg":"ed7badf0e7","kaki_r5_map06.jpg":"cb26648bb7","kaki_r5_map07.jpg":"71e0a7471a","kaki_r5_map08.jpg":"cb201dc1ad","kaki_r5_map09.jpg":"5492cacbbd","kaki_r5_map10.jpg":"55d2435544","kaki_r5_map11.jpg":"343f6ce76d","kaki_r5_map12.jpg":"b74276a461","kaki_r5_map13.jpg":"d662f67d0a","kaki_r5_map14.jpg":"9c25e54a2c","kaki_r5_map15.jpg":"4376961dbe","kaki_r5_map16.jpg":"a398327f58","kaki_r5_map17.jpg":"8f1e23de6f","kaki_r5_map18.jpg":"d063497018","kaki_r5_map19.jpg":"9e149162e9","kaki_r5_map20.jpg":"2c88d5bd5a","kaki_r5_map21.jpg":"1a580e7a32","kaki_r5_map22.jpg":"398b418584","kaki_r5_map23.jpg":"4d62801b55","kaki_r5_map24.jpg":"fe4a91e391","kaki_r5_map25.jpg":"2b1faef03a","kaki_r5_map26.jpg":"caa8517e16","kaki_r5_map27.jpg":"3fc1dacd7c","kaki_r5_map28.jpg":"5b003a47a1","kaki_r5_map29.jpg":"4c177786d9","kaki_r5_map30.jpg":"8771a4c770","kaki_r5_map31.jpg":"8b3232b824","kaki_r5_map32.jpg":"3edcd448a1","kaki_r5_shapes02.jpg":"5df2c79f77","kaki_r5_shapes03.jpg":"aac1488fcf","kaki_r5_table01.jpg":"19533bd2f2","kaki_r5_table02.jpg":"d8019480f5","kaki_r6_graph01.jpg":"96bb4577a7","kaki_r6_map01.jpg":"d9934df143","kaki_r6_map02.jpg":"fe5bd5dbbe","kaki_r6_map03.jpg":"e1e31c6154","kaki_r6_map04.jpg":"b66fa8a761","kaki_r6_map05.jpg":"e32e50186e","kaki_r6_map06.jpg":"edd75b804c","kaki_r6_map07.jpg":"b77ba31786","kaki_r6_map08.jpg":"36b54ed3c8","kaki_r6_map09.jpg":"6f08ed9b1a","kaki_r6_map10.jpg":"5dcc7b61af","kaki_r6_map11.jpg":"8930f6ed5a","kaki_r6_map12.jpg":"b9a01555a7","kaki_r6_map13.jpg":"ae954fc0d3","kaki_r6_map14.jpg":"c3d0ada944","kaki_r6_map15.jpg":"33c3dd2588","kaki_r6_map16.jpg":"f143bac952","kaki_r6_map17.jpg":"8e4028b2f9","kaki_r6_map18.jpg":"e27c8cc933","kaki_r6_map19.jpg":"9675f32dd9","kaki_r6_map20.jpg":"73a10cd200","kaki_r6_map21.jpg":"d4424ac8cf","kaki_r6_map22.jpg":"2274caa4a2","kaki_r6_map23.jpg":"129b3c20cf","kaki_r6_map24.jpg":"334ddece52","kaki_r6_map25.jpg":"6c84324de8","kaki_r6_map26.jpg":"4f02b0d10a","kaki_r6_map27.jpg":"5435b9a073","kaki_r6_map28.jpg":"4f420842a2","kaki_r6_map29.jpg":"43c72ca771","kaki_r6_map30.jpg":"ba92be3494","kaki_r6_map31.jpg":"5fb2f51387","kaki_r6_map32.jpg":"50a9be50e2","kaki_r6_map33.jpg":"ee52bc0e68","kaki_r6_map34.jpg":"c306aca085","kaki_r6_map35.jpg":"82ba643838","kaki_r6_map36.jpg":"f0b2024222","kaki_r6_map37.jpg":"578787fb55","kaki_r6_map38.jpg":"a867948ec2","kaki_r6_map39.jpg":"36ddd230df","kaki_r6_map40.jpg":"b451ce2553","kaki_r6_map41.jpg":"e945ff9e3b","kaki_r6_map42.jpg":"6ead747b59","kaki_r6_map43.jpg":"0c4fa9452c","kaki_r6_map44.jpg":"b6ba24cf61","kaki_r6_map45.jpg":"60c76ded4f","kaki_r6_map46.jpg":"c997423a88","kaki_r6_map47.jpg":"03668f2ff1","kaki_r6_map48.jpg":"b976807139","kaki_r6_map49.jpg":"3bede7dac8","kaki_r6_table01.jpg":"a8958813c8","kaki_r7_graph02.jpg":"1f62812a09","kaki_r7_map01.jpg":"99e641197f","kaki_r7_map02.jpg":"9bf3a0d803","kaki_r7_map03.jpg":"f797eda8eb","kaki_r7_map04.jpg":"decaa1c29a","kaki_r7_map05.jpg":"8c65db6a92","kaki_r7_map06.jpg":"ac9efa31ab","kaki_r7_map07.jpg":"8c1d72ca7c","kaki_r7_map08.jpg":"433be63b7b","kaki_r7_map09.jpg":"54db8c57e6","kaki_r7_map10.jpg":"71c659ba69","kaki_r7_map11.jpg":"b21192fde1","kaki_r7_map12.jpg":"73c261b366","kaki_r7_map13.jpg":"65f35e8544","kaki_r7_map14.jpg":"7177100d76","kaki_r7_map15.jpg":"133fd7c751","kaki_r7_map16.jpg":"3eb4b1ab57","kaki_r7_map17.jpg":"c7e46c62c8","kaki_r7_map18.jpg":"595fa5f1d3","kaki_r7_map19.jpg":"49e0ea66d2","kaki_r7_map20.jpg":"030f5b32b7","kaki_r7_map21.jpg":"05808524f1","kaki_r7_map22.jpg":"bd20c38480","kaki_r7_map23.jpg":"ce6fc43df4","kaki_r7_map24.jpg":"b2753580e2","kaki_r7_map25.jpg":"78bd7107e6","kaki_r7_map26.jpg":"34d4f7151a","kaki_r7_map27.jpg":"b21d7f5dd5","kaki_r7_map28.jpg":"476473eec3","kaki_r7_map29.jpg":"97c7ee7f61","kaki_r7_map30.jpg":"e0005dcc88","kaki_r7_map31.jpg":"204f2de615","kaki_r7_map32.jpg":"f006ba7103","kaki_r7_map33.jpg":"da58f9cff4","kaki_r7_map34.jpg":"1f584b7d6a","kaki_r7_map35.jpg":"11e1004bd8","kaki_r7_map36.jpg":"fd137ff9b8","kaki_r7_table01.jpg":"531ede38c5","kaki_r7_table02.jpg":"0e77123fca","kaki_r8_map01.jpg":"a57f501a98","kaki_r8_map02.jpg":"b06073e9aa","kaki_r8_map03.jpg":"5c8daedeab","kaki_r8_map04.jpg":"10a7bdd03d","kaki_r8_map05.jpg":"4fb5437d44","kaki_r8_map06.jpg":"76a72a9043","kaki_r8_map07.jpg":"77cc3b1bbc","kaki_r8_map08.jpg":"5c8d0a406b","kaki_r8_map09.jpg":"4ab8d8bf9c","kaki_r8_map10.jpg":"005ce58bdc","kaki_r8_map11.jpg":"8c83802060","kaki_r8_map12.jpg":"a5781f5932","kaki_r8_map13.jpg":"f3dcb0128c","kaki_r8_map14.jpg":"40a712cf1f","kaki_r8_map15.jpg":"79a9d6288f","kaki_r8_map16.jpg":"104361951c","kaki_r8_map17.jpg":"e43f6d31b7","kaki_r8_map18.jpg":"c67dd6cb83","kaki_r8_map19.jpg":"48159eea09","kaki_r8_map20.jpg":"023d3f8a9d","kaki_r8_map21.jpg":"03f3be5685","kaki_r8_map22.jpg":"77fe732dea","kaki_r8_map23.jpg":"e005abbe6c","kaki_r8_map24.jpg":"b25880e6c5","kaki_r8_map25.jpg":"7e313cd421","kaki_r8_map26.jpg":"def354dfdd","kaki_r8_map27.jpg":"449858def5","kaki_r8_map28.jpg":"bb9f08441a","kaki_r8_map29.jpg":"472c09aa53","kaki_r8_map30.jpg":"35be560792","kaki_r8_map31.jpg":"6cbd996f24","kaki_r8_map32.jpg":"60af73c7f5","kaki_r8_map33.jpg":"b194bc8ead","kaki_r8_map34.jpg":"cbc7c209db","kaki_r8_map35.jpg":"1de93906c5","kaki_r8_map36.jpg":"6ba8cf6d3b","kaki_r8_map37.jpg":"07aeb406af","kaki_r8_map38.jpg":"bee7eebc38","kaki_r8_map39.jpg":"45f22df6b1","kaki_r8_map40.jpg":"9e3f4196d2","kaki_r8_map41.jpg":"f1ce465720","kaki_r8_map42.jpg":"0551ccd81c","kaki_r8_map43.jpg":"82000f70d1","kaki_r8_map44.jpg":"2b88f0190b","kaki_r8_map45.jpg":"35ee95a764","kaki_r8_map46.jpg":"dd721e219c","kaki_r8_map47.jpg":"a465f218c2","kaki_r8_map48.jpg":"dcdc8a4d37","kaki_r8_map49.jpg":"388b475050","kaki_r8_map50.jpg":"4153c12b69","kaki_r8_map51.jpg":"aa826973da","kaki_r8_map52.jpg":"40fa851678","kaki_r8_map53.jpg":"181212ead1","kaki_r8_map54.jpg":"7c5a4a90c3","kaki_r8_map55.jpg":"488f98a461","kaki_r8_map56.jpg":"95df737037","kaki_r8_map57.jpg":"92d00cfd17","kaki_r8_map58.jpg":"6e49210e3e","r11_01.jpg":"321b1f3aac","r11_02.jpg":"562e0c2949","r11_03.jpg":"7b81336618","r11_04.jpg":"423ff2c7c6","r11_05.jpg":"b78b0ac6c2","r11h_1.jpg":"c13ee378de","r11h_2.jpg":"cd5de86a29","r11k_2.jpg":"c617c3a356","r11k_2b.jpg":"bde5cbd879","r11k_3.jpg":"c5e207abf9","r11k_4.jpg":"5a7639a134","r11r_1.jpg":"64e19bacb1","r11r_1b.jpg":"f568723aee","r11r_1c.jpg":"811ad87c33","r11r_2.jpg":"42e7b8475e","r11r_2b.jpg":"c005f2a869","r11r_3.jpg":"93bae49f24","r1_01.jpg":"4a6380da93","r1_02.jpg":"da23c3400c","r1_03.jpg":"7eddc7aa20","r1_04.jpg":"dbd948bc4f","r1_05.jpg":"435f86d82f","r1_06.jpg":"f09fdec1b9","r1_shinrin.jpg":"a750740d7f","r2_01.jpg":"3b40218424","r2_02.jpg":"387da36abc","r2_03.jpg":"e1febb3ca4","r2_04.jpg":"95132e77ec","r2_05.jpg":"0b08a836a5","r2_06.jpg":"0213ccc6d0","r2_07.jpg":"87baf0940a","r2_08.jpg":"07e455253d","r2_09.jpg":"42792edd75","r2_10.jpg":"42792edd75","r2_11.jpg":"42792edd75","r2_12.jpg":"4f2c45c956","r2_13.jpg":"4f2c45c956","r2_14.jpg":"4f2c45c956","r2_15.jpg":"52e855ee49","r2_16.jpg":"52e855ee49","r2_17.jpg":"52e855ee49","r2_18.jpg":"440bf4b31f","r2_19.jpg":"440bf4b31f","r2_20.jpg":"535707c4eb","r2_21.jpg":"535707c4eb","r2_22.jpg":"535707c4eb","r2_23.jpg":"535707c4eb","r2_24.jpg":"535707c4eb","r2_25.jpg":"535707c4eb","r2_26.jpg":"2dc94c771d","r2_27.jpg":"2dc94c771d","r2_28.jpg":"2dc94c771d","r2_29.jpg":"2dc94c771d","r2_30.jpg":"a6433ef6c0","r2_31.jpg":"a6433ef6c0","r2_32.jpg":"a6433ef6c0","r2_33.jpg":"a6433ef6c0","r2_34.jpg":"8d16d4ac64","r2_35.jpg":"8d16d4ac64","r2_36.jpg":"8d16d4ac64","r2_37.jpg":"8d16d4ac64","r2_38.jpg":"91f1c5bca5","r2_39.jpg":"b60adbd1c3","r2_40.jpg":"c82ed30fab","r3_chuuwa.jpg":"803f88484e","r3_seishitsu.jpg":"6584946c1b","r3_shijiyaku.jpg":"9b319c7d88","r3_yomi21.jpg":"b2ad009491","r3_yomi24.jpg":"d6fc3d99b8","r3_yomi25.jpg":"aa0903b0ab","r3_yomi27.jpg":"8dc3d4a3a9","r3_yomi36.jpg":"595c040e9f","r3k_1a.jpg":"55441f3d9f","r3k_1b.jpg":"1356de67e3","r3k_2.jpg":"3105353be2","r3k_3.jpg":"4f041ffa22","r3r_3.jpg":"10cadd705b","r3w_2.jpg":"282e87ba1b","r3w_3.jpg":"b2770557c1","r3y_5ans.jpg":"e4645e89b4","r4_01.jpg":"393de5eca5","r4_02.jpg":"40d9b4e0f2","r4_03.jpg":"5b2d21540e","r4_04.jpg":"947f21bcb2","r4k_1.jpg":"90d74e5d01","r4k_2.jpg":"cc3c2e4caa","r4r_1.jpg":"4798d0b4ce","r4r_2.jpg":"7f98882f2f","r4r_3.jpg":"583c14ef86","r4r_4.jpg":"d02ddf1cd0","r4w_1a.jpg":"b6bf2c20dd","r4w_1b.jpg":"64b2ae8256","r4w_2.jpg":"ba6aa9c69c","r4w_3.jpg":"b838901256","r5u13_01.jpg":"8a69c689ae","r5u13_02.jpg":"e52d50ee0d","r5u13_03.jpg":"8b6aae14a3","r5u13_04.jpg":"c0812ddc66","r5u13_05.jpg":"a2ffcc22da","r5u13_06.jpg":"41b8282bc6","r5u13_07.jpg":"a42085c269","r5u13_08.jpg":"7ff9dfa5c5","r6_01.jpg":"32ff3016d8","r6_02.jpg":"3c73527dd8","r6_03.jpg":"a444385107","r6_04.jpg":"a4dfdac612","r6_05.jpg":"b5f6b9f6a3","r6_06.jpg":"1a7c249e0f","r6_07.jpg":"389ba3d7b8","r6_08.jpg":"54e693e4b7","r6_09.jpg":"b02381d63b","r6_10.jpg":"da46bca31a","r6_11.jpg":"9259db1350","r6_12.jpg":"14c449020d","r6_13.jpg":"0577c1be67","r6_14.jpg":"79530fa540","r6_15.jpg":"dcf990eb89","r6_16.jpg":"d5a37d0bce","r6_17.jpg":"cbeac19169","r6k_1.jpg":"0c5793f6c1","r6k_2.jpg":"7cc5f04102","r6k_2b.jpg":"19f68c1767","r6k_3.jpg":"6b57f40878","r6k_4.jpg":"6eba853e20","r6p_01.jpg":"e16dfbac90","r6p_02.jpg":"9a335bea93","r6p_03.jpg":"9ed60c3d70","r6p_04.jpg":"ae5944a085","r6p_05.jpg":"b6a1836a78","r6p_06.jpg":"acb7478bd6","r6p_07.jpg":"a4c8c8dd0d","r6r_1.jpg":"4606457fc7","r6r_1b.jpg":"dafd16e516","r6r_2.jpg":"73bd9e9cc4","r6r_2b.jpg":"ce235b797a","r6r_2c.jpg":"3638d4d780","r6r_3.jpg":"8bc4c35ba9","r6r_3ans.jpg":"c729ca8dc1","r6r_4.jpg":"1a97fe9f9a","r6r_4b.jpg":"e1f0d07003","r6r_4c.jpg":"606d8620bb","r6r_5.jpg":"83747b014d","r7_01.jpg":"466ea22251","r7_02.jpg":"84ef6e008b","r7_03.jpg":"3583685d2a","r7_04.jpg":"a49dfe47bb","r7_05.jpg":"8357813f22","r7_06.jpg":"1e30160b9f","r7_07.jpg":"fec15a5ddd","r7_08.jpg":"5f8a1be38a","r7_10.jpg":"01bd20bac0","r7k_2.jpg":"c3e5b1fdc4","r7k_2b.jpg":"b4937893d8","r7k_3.jpg":"dfb199cdc1","r7k_4.jpg":"46545faf0d","r7r_1.jpg":"6de7fd0a8e","r7r_1b.jpg":"ed991d90d3","r7r_1c.jpg":"235b1d340f","r7r_2.jpg":"807cc07178","r7r_3.jpg":"9541daa1d1","r7r_5c.jpg":"bad6e5885d","r7y_1.jpg":"c647deffec","r8_05.jpg":"997a3b7635","r8_06.jpg":"b56d871128","r8_07.jpg":"5bb801877e","r8_10.jpg":"ac484d0958","r8_11.jpg":"174c916ad6","r8_12.jpg":"3e8313d3ab","r8_13.jpg":"f2f5f12b44","r8_14.jpg":"de0761c890","r8_15.jpg":"955040e2d6","r8_16.jpg":"17e5a0bb41","r8_17.jpg":"fe5825e0da","r8_18.jpg":"5ad51c980d","r8k_1.jpg":"a7e3225a1e","r8k_2.jpg":"2d8935c26a","r8k_3.jpg":"fea0c57403","r8k_4.jpg":"101c437443","r8r_1.jpg":"781eb27ca1","r8r_1b.jpg":"b123b7d86d","r8r_1c.jpg":"eb02922d34","r8r_2.jpg":"eb632645d4","r8r_2c.jpg":"d7e9c8d38d","r8r_3.jpg":"fb200207c9","r8r_4.jpg":"cf5f75eccf","r8r_5.jpg":"4876ee8eeb","r8r_5b.jpg":"7799e66960","r8r_5c.jpg":"6bd6e2bad1","r8y_1.jpg":"5a55076e7d","r8y_2.jpg":"ef35951bec","r8y_3.jpg":"b95a28fa6d","r9_01.jpg":"ef3eeb19d5","r9_02.jpg":"75ffd6c347","r9_03.jpg":"e6ae1b2a1c","r9_04.jpg":"ae3ca3e752","r9_05.jpg":"d037fd4536","r9_06.jpg":"4837b59107","r9_07.jpg":"3b27c8bb15","r9_08.jpg":"d8f45dbe17","r9_09.jpg":"597d1b0423","r9d_01.jpg":"db4cc4c881","r9k_1.jpg":"560bbb6301","r9k_1b.jpg":"62cbe10e38","r9k_2.jpg":"b7467838ca","r9k_3.jpg":"8716d534ac","r9r_1.jpg":"6856a4e449","r9r_1b.jpg":"5cebd6dd8f","r9r_3.jpg":"f199288e40","r9r_4.jpg":"d91ea6189f","r9r_4b.jpg":"68486a883e","r9r_5.jpg":"e5553f71d3","組分け6_1_地図.png":"ec7b795c88","組分け6_1_絵.png":"56dddd3c07","組分け6_3_地図.png":"6488459456","組分け6_3_模式図.png":"5b845a6430"};
 const KINAI_IMAGES = ["kai6_01.jpg","kai6_02.jpg","kai6_03.jpg","kai6_04.jpg","kai6_05.jpg","kai6_06.jpg","kai6_07.jpg","kai6_08.jpg","kai6_09.jpg","kai7_01.jpg","kai7_02.jpg","kai7_03.jpg","kai7_04.jpg","kai7_05.jpg","kai7_06.jpg","kai7_07.jpg","kai7_08.jpg","kai7_09.jpg","kai8_01.jpg","kai8_02.jpg","kai8_03.jpg","kai8_04.jpg","kai8_05.jpg","kai8_06.jpg","kai8_07.jpg","kai8_08.jpg","kai8_09.jpg","kai8_11.jpg","kai8_13.jpg","kai8_14.jpg","kai9_01.jpg","kai9_02.jpg","kai9_03.jpg","kai9_04.jpg","kai9_05.jpg","kai9_06.jpg","kai9_07.jpg","kai9_08.jpg","kai9_09.jpg","kai9_10.jpg","r6_01.jpg","r6_02.jpg","r6_03.jpg","r6_04.jpg","r6_06.jpg","r6_07.jpg","r6_08.jpg","r6_09.jpg","r6_10.jpg","r6_11.jpg","r6_12.jpg","r6_13.jpg","r6_14.jpg","r6_15.jpg","r6_16.jpg","r6_17.jpg","r6k_1.jpg","r6k_2.jpg","r6k_2b.jpg","r6k_3.jpg","r6k_4.jpg","r6p_01.jpg","r6p_02.jpg","r6p_03.jpg","r6p_04.jpg","r6p_05.jpg","r6p_06.jpg","r6p_07.jpg","r6r_2.jpg","r6r_2b.jpg","r6r_2c.jpg","r6r_4.jpg","r6r_4b.jpg","r6r_4c.jpg","r7_01.jpg","r7_02.jpg","r7_03.jpg","r7_04.jpg","r7_05.jpg","r7_07.jpg","r7_08.jpg","r7_10.jpg","r7k_2.jpg","r7k_2b.jpg","r7k_3.jpg","r7k_4.jpg","r7r_1.jpg","r7r_1b.jpg","r7r_1c.jpg","r7r_2.jpg","r7r_3.jpg","r7y_1.jpg","r8_05.jpg","r8_06.jpg","r8_07.jpg","r8_10.jpg","r8_11.jpg","r8_12.jpg","r8_13.jpg","r8_16.jpg","r8_17.jpg","r8k_1.jpg","r8k_2.jpg","r8k_3.jpg","r8k_4.jpg","r8r_1.jpg","r8r_1b.jpg","r8r_1c.jpg","r8r_2.jpg","r8r_2c.jpg","r8r_3.jpg","r8r_4.jpg","r8r_5.jpg","r8y_1.jpg","r8y_2.jpg","r8y_3.jpg","r9_01.jpg","r9_02.jpg","r9_03.jpg","r9_04.jpg","r9_05.jpg","r9_06.jpg","r9_07.jpg","r9_08.jpg","r9_09.jpg","r9k_1.jpg","r9k_1b.jpg","r9k_2.jpg","r9k_3.jpg","r9r_1.jpg","r9r_1b.jpg","r9r_3.jpg","r9r_4.jpg"];
 // ==BUILD END==
 
